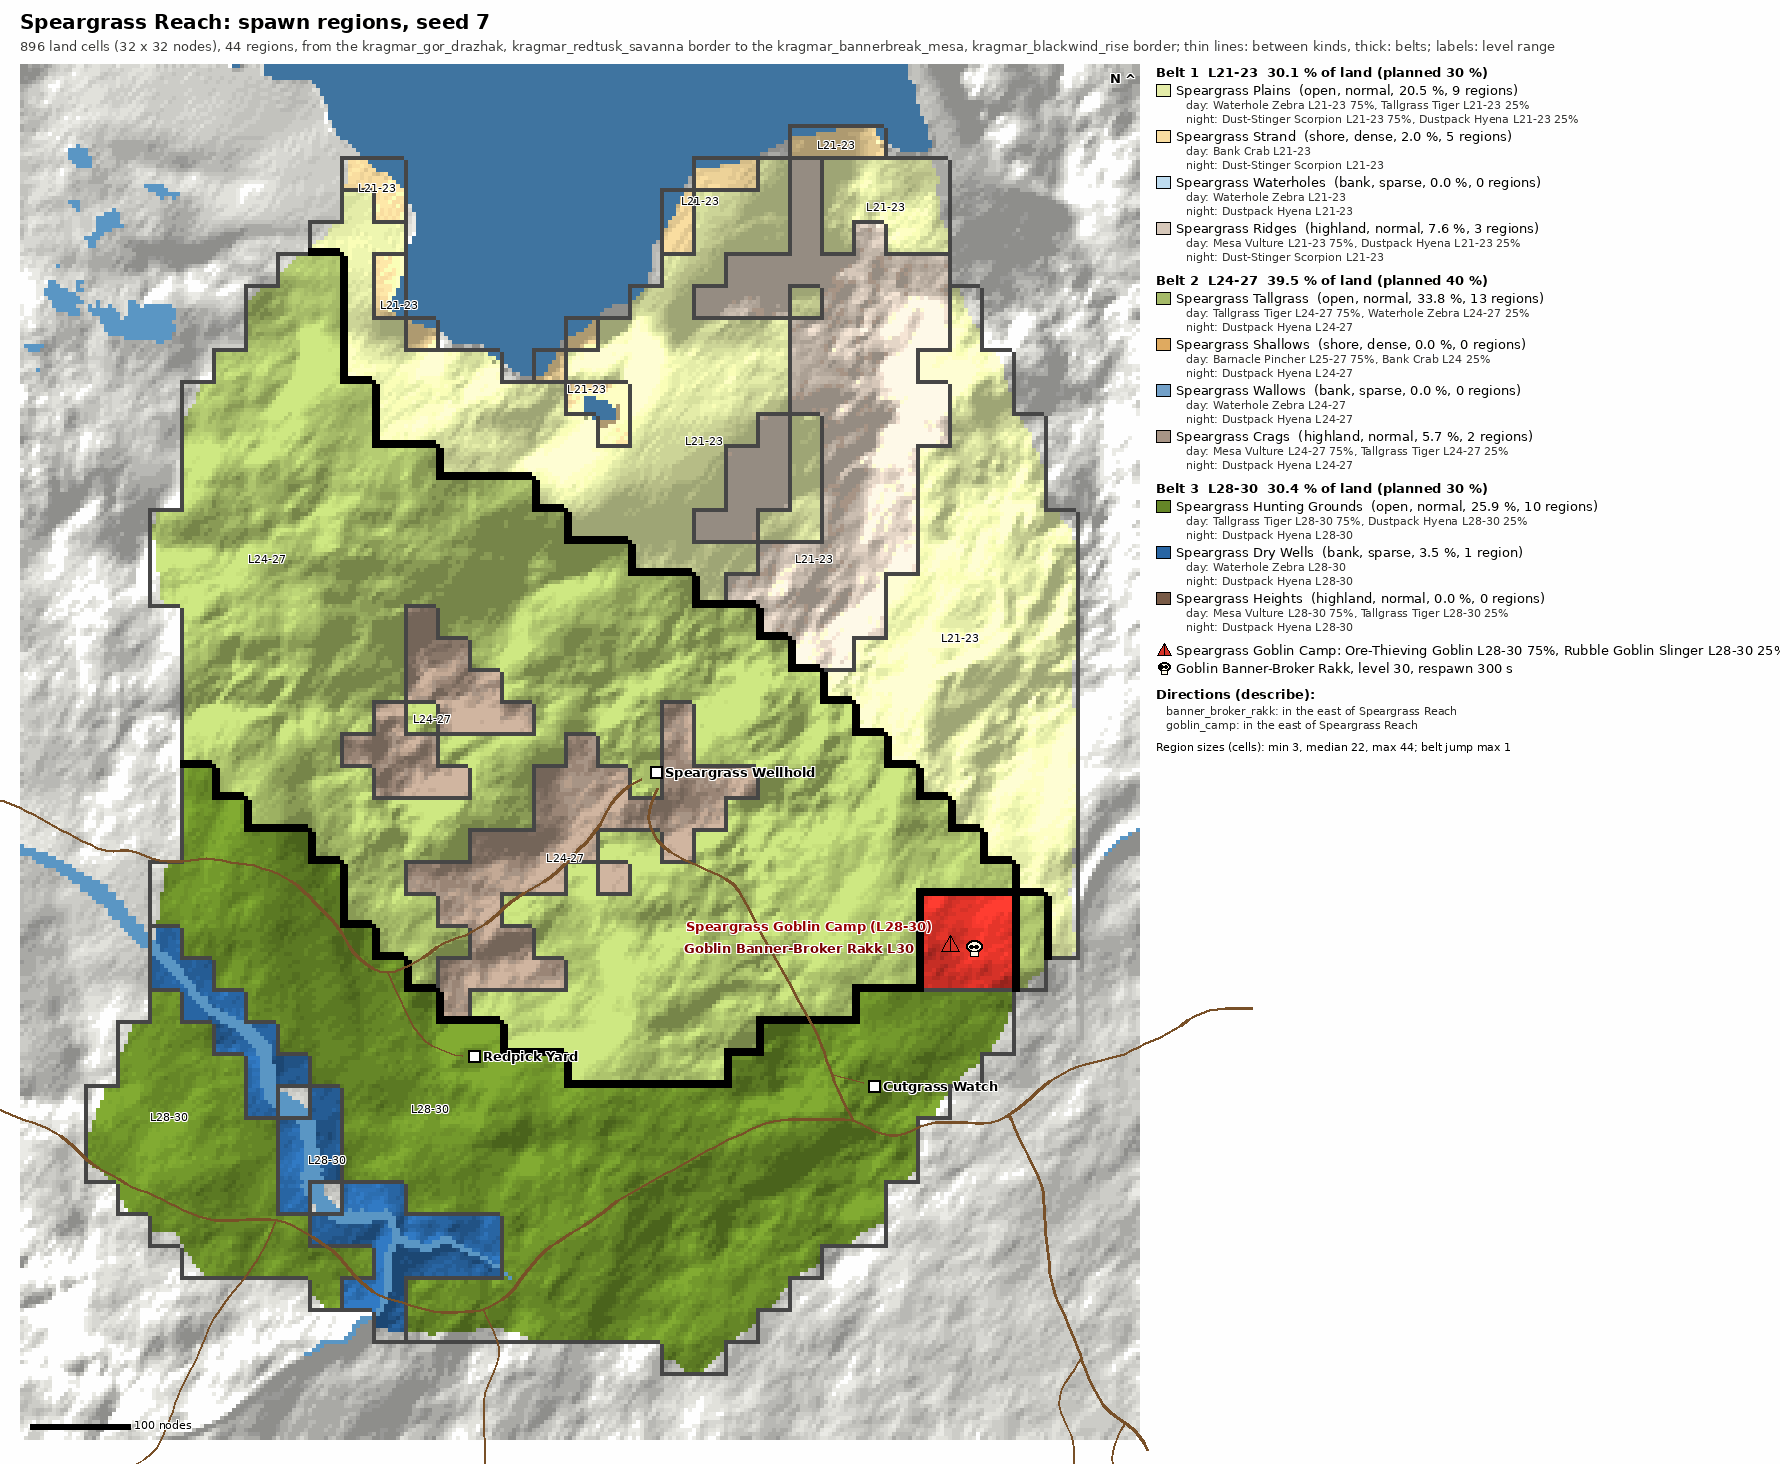
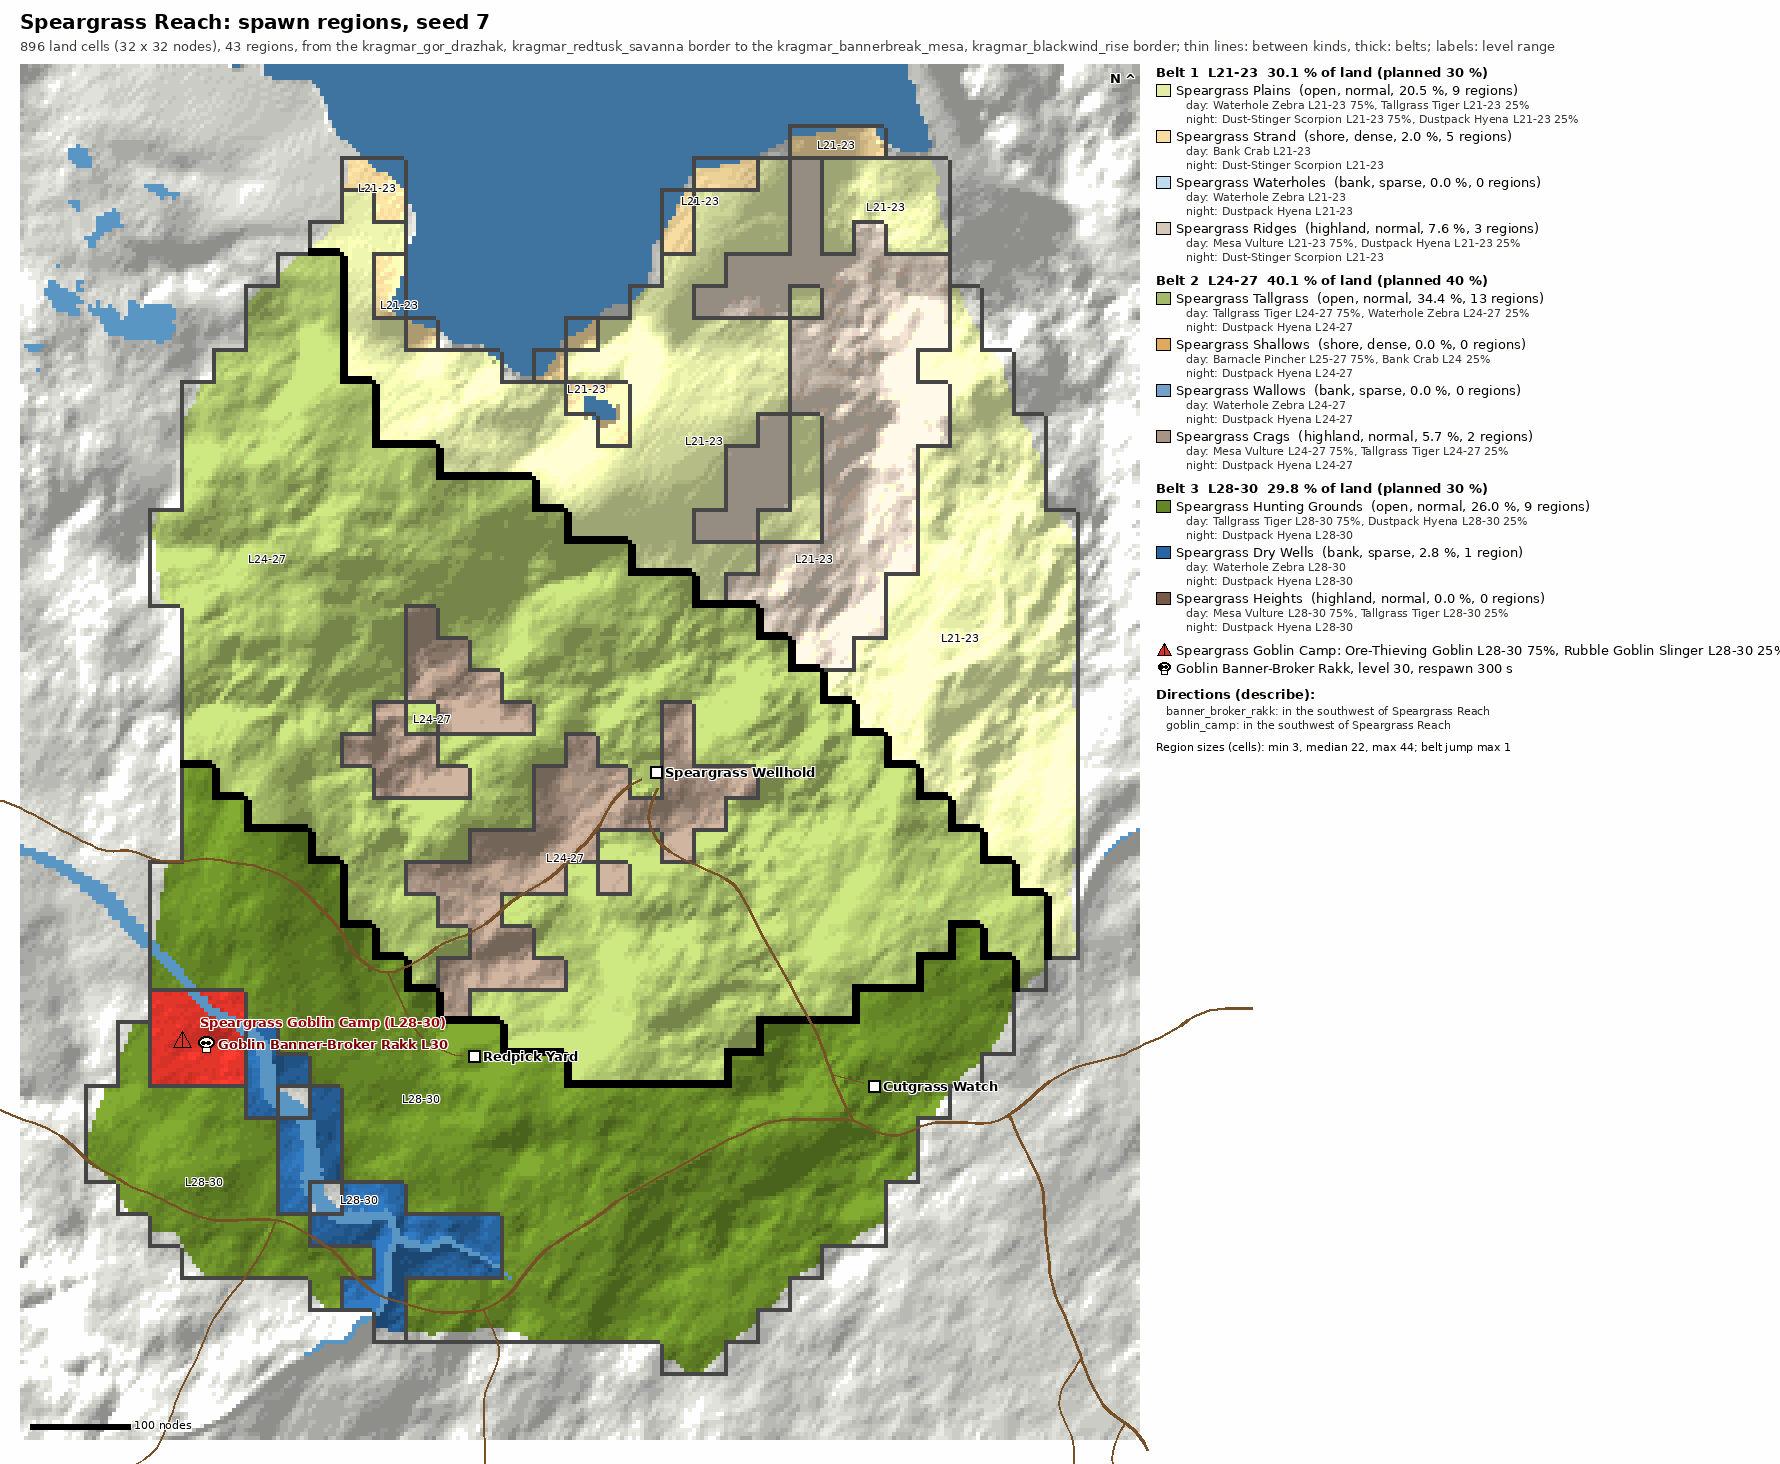
Round 28 S2b: Kragmar regions re-rendered on the S2c builder (seeds 42, 7, 2026)
0 problems, belt jumps at most 1, all 20 leaders on their own kinds and camps
on every seed; only Speargrass seed 7's goblin camp moved (west edge of
L28-30, by Redpick Yard).

diff --git a/docs/planning/round28/regions/speargrass/seed_7.md b/docs/planning/round28/regions/speargrass/seed_7.md
@@ -2,15 +2,15 @@
 
 Generated by `tools/r28_regions/run.sh` from the shipped recipe (`mods/ENTITIES/grug_mobs/data/zones/kragmar_speargrass_reach.spawns.json`); image `seed_7.png`.
 
-Build: world 17.0 s, region map 0.40 s (CPU, LuaJIT, offline); the map holds about 797 KiB, the first build -7779 KiB with the planner's column cache it warms. 896 land cells, 44 regions, 0 islet cells, 2 cells smoothed (belt step-down).
+Build: world 16.7 s, region map 0.46 s (CPU, LuaJIT, offline); the map holds about 797 KiB, the first build -7750 KiB with the planner's column cache it warms. 896 land cells, 43 regions, 0 islet cells, 2 cells smoothed (belt step-down).
 
 ## Belts
 
 | Belt | Levels | Planned | Land share |
 |---|---|---|---|
 | l21_23 | L21-23 | 30 % | 30.1 % |
-| l24_27 | L24-27 | 40 % | 39.5 % |
-| l28_30 | L28-30 | 30 % | 30.4 % |
+| l24_27 | L24-27 | 40 % | 40.1 % |
+| l28_30 | L28-30 | 30 % | 29.8 % |
 
 ## Kinds
 
@@ -20,23 +20,23 @@ Build: world 17.0 s, region map 0.40 s (CPU, LuaJIT, offline); the map holds abo
 | Speargrass Strand (`strand`) | 1 | shore | dense | 2.0 % | 5 | Bank Crab L21-23 | Dust-Stinger Scorpion L21-23 |
 | Speargrass Waterholes (`waterholes`) | 1 | bank | sparse | 0.0 % | 0 | Waterhole Zebra L21-23 | Dustpack Hyena L21-23 |
 | Speargrass Ridges (`ridges`) | 1 | highland | normal | 7.6 % | 3 | Mesa Vulture L21-23 75%, Dustpack Hyena L21-23 25% | Dust-Stinger Scorpion L21-23 |
-| Speargrass Tallgrass (`tallgrass`) | 2 | open | normal | 33.8 % | 13 | Tallgrass Tiger L24-27 75%, Waterhole Zebra L24-27 25% | Dustpack Hyena L24-27 |
+| Speargrass Tallgrass (`tallgrass`) | 2 | open | normal | 34.4 % | 13 | Tallgrass Tiger L24-27 75%, Waterhole Zebra L24-27 25% | Dustpack Hyena L24-27 |
 | Speargrass Shallows (`shallows`) | 2 | shore | dense | 0.0 % | 0 | Barnacle Pincher L25-27 75%, Bank Crab L24 25% | Dustpack Hyena L24-27 |
 | Speargrass Wallows (`wallows`) | 2 | bank | sparse | 0.0 % | 0 | Waterhole Zebra L24-27 | Dustpack Hyena L24-27 |
 | Speargrass Crags (`crags`) | 2 | highland | normal | 5.7 % | 2 | Mesa Vulture L24-27 75%, Tallgrass Tiger L24-27 25% | Dustpack Hyena L24-27 |
-| Speargrass Hunting Grounds (`hunting_grounds`) | 3 | open | normal | 25.9 % | 10 | Tallgrass Tiger L28-30 75%, Dustpack Hyena L28-30 25% | Dustpack Hyena L28-30 |
-| Speargrass Dry Wells (`dry_wells`) | 3 | bank | sparse | 3.5 % | 1 | Waterhole Zebra L28-30 | Dustpack Hyena L28-30 |
+| Speargrass Hunting Grounds (`hunting_grounds`) | 3 | open | normal | 26.0 % | 9 | Tallgrass Tiger L28-30 75%, Dustpack Hyena L28-30 25% | Dustpack Hyena L28-30 |
+| Speargrass Dry Wells (`dry_wells`) | 3 | bank | sparse | 2.8 % | 1 | Waterhole Zebra L28-30 | Dustpack Hyena L28-30 |
 | Speargrass Heights (`heights`) | 3 | highland | normal | 0.0 % | 0 | Mesa Vulture L28-30 75%, Tallgrass Tiger L28-30 25% | Dustpack Hyena L28-30 |
 | Speargrass Goblin Camp (`goblin_camp`) | camp | - | slots 6 | 1.0 % | 1 | Ore-Thieving Goblin L28-30 75%, Rubble Goblin Slinger L28-30 25% | Ore-Thieving Goblin L28-30 75%, Rubble Goblin Slinger L28-30 25% |
 
 ## Region sizes
 
-Cells per region (32 x 32 nodes each), sorted: 3 3 3 4 5 9 9 10 11 11 12 12 16 16 16 16 16 18 18 19 19 21 22 22 22 22 23 24 24 25 26 26 26 27 27 28 29 31 32 33 35 40 41 44. Min 3, median 22, max 44; largest belt difference between adjacent regions: 1.
+Cells per region (32 x 32 nodes each), sorted: 3 3 3 4 5 9 9 10 11 11 12 12 13 13 16 16 18 18 19 21 22 22 23 24 24 24 25 25 26 26 26 26 27 28 29 29 32 35 36 37 39 41 44. Min 3, median 22, max 44; largest belt difference between adjacent regions: 1.
 
 ## Camps and leaders
 
-- Camp `goblin_camp` at (-560, 1392): score 0.60, nearest road 128 nodes, levels L28-30.
-- Leader Goblin Banner-Broker Rakk (`banner_broker_rakk`) at (-560, 1392), level 30, respawn 300 s.
+- Camp `goblin_camp` at (-1328, 1296): score 0.58, nearest road 128 nodes, levels L28-30.
+- Leader Goblin Banner-Broker Rakk (`banner_broker_rakk`) at (-1328, 1296), level 30, respawn 300 s.
 
 ## Directions
 
@@ -44,8 +44,8 @@ Reference place: none (no `from` anchor); quest giver: none (no start town).
 
 | Target | Of the place | From the giver | Within the zone |
 |---|---|---|---|
-| Speargrass Goblin Camp | - | - | in the east of Speargrass Reach (403) |
-| Goblin Banner-Broker Rakk | - | - | in the east of Speargrass Reach (403) |
+| Speargrass Goblin Camp | - | - | in the southwest of Speargrass Reach (484) |
+| Goblin Banner-Broker Rakk | - | - | in the southwest of Speargrass Reach (484) |
 | Speargrass Plains | - | - | in the north of Speargrass Reach (350) |
 | Speargrass Strand | - | - | in the north of Speargrass Reach (386) |
 | Speargrass Waterholes | - | - | - |
@@ -54,8 +54,8 @@ Reference place: none (no `from` anchor); quest giver: none (no start town).
 | Speargrass Shallows | - | - | - |
 | Speargrass Wallows | - | - | - |
 | Speargrass Crags | - | - | in the heart of Speargrass Reach (90) |
-| Speargrass Hunting Grounds | - | - | in the southwest of Speargrass Reach (375) |
-| Speargrass Dry Wells | - | - | in the southwest of Speargrass Reach (472) |
+| Speargrass Hunting Grounds | - | - | in the southwest of Speargrass Reach (371) |
+| Speargrass Dry Wells | - | - | in the southwest of Speargrass Reach (489) |
 | Speargrass Heights | - | - | - |
 
 Distances in nodes (zone column: from the zone's land centre). A kind points at its largest region.

diff --git a/docs/planning/round28/regions/thunderroot/seed_2026.md b/docs/planning/round28/regions/thunderroot/seed_2026.md
@@ -2,7 +2,7 @@
 
 Generated by `tools/r28_regions/run.sh` from the shipped recipe (`mods/ENTITIES/grug_mobs/data/zones/kragmar_thunderroot_wilds.spawns.json`); image `seed_2026.png`.
 
-Build: world 17.8 s, region map 0.44 s (CPU, LuaJIT, offline); the map holds about 1150 KiB, the first build -13140 KiB with the planner's column cache it warms. 1273 land cells, 61 regions, 0 islet cells, 0 cells smoothed (belt step-down).
+Build: world 17.3 s, region map 0.44 s (CPU, LuaJIT, offline); the map holds about 1150 KiB, the first build -10257 KiB with the planner's column cache it warms. 1273 land cells, 61 regions, 0 islet cells, 0 cells smoothed (belt step-down).
 
 ## Belts
 

diff --git a/docs/planning/round28/regions/whispering/seed_2026.md b/docs/planning/round28/regions/whispering/seed_2026.md
@@ -2,7 +2,7 @@
 
 Generated by `tools/r28_regions/run.sh` from the shipped recipe (`mods/ENTITIES/grug_mobs/data/zones/kragmar_whispering_reedlands.spawns.json`); image `seed_2026.png`.
 
-Build: world 17.8 s, region map 0.40 s (CPU, LuaJIT, offline); the map holds about 624 KiB, the first build -15080 KiB with the planner's column cache it warms. 689 land cells, 37 regions, 0 islet cells, 2 cells smoothed (belt step-down).
+Build: world 17.3 s, region map 0.40 s (CPU, LuaJIT, offline); the map holds about 624 KiB, the first build -15415 KiB with the planner's column cache it warms. 689 land cells, 37 regions, 0 islet cells, 2 cells smoothed (belt step-down).
 
 ## Belts
 

diff --git a/docs/planning/round28/regions/bannerbreak/seed_2026.md b/docs/planning/round28/regions/bannerbreak/seed_2026.md
@@ -2,7 +2,7 @@
 
 Generated by `tools/r28_regions/run.sh` from the shipped recipe (`mods/ENTITIES/grug_mobs/data/zones/kragmar_bannerbreak_mesa.spawns.json`); image `seed_2026.png`.
 
-Build: world 17.9 s, region map 0.57 s (CPU, LuaJIT, offline); the map holds about 1148 KiB, the first build -8854 KiB with the planner's column cache it warms. 1270 land cells, 60 regions, 1 islet cells, 0 cells smoothed (belt step-down).
+Build: world 17.3 s, region map 0.54 s (CPU, LuaJIT, offline); the map holds about 1148 KiB, the first build -10263 KiB with the planner's column cache it warms. 1270 land cells, 60 regions, 1 islet cells, 0 cells smoothed (belt step-down).
 
 ## Belts
 

diff --git a/docs/planning/round28/regions/thunderroot/seed_42.md b/docs/planning/round28/regions/thunderroot/seed_42.md
@@ -2,7 +2,7 @@
 
 Generated by `tools/r28_regions/run.sh` from the shipped recipe (`mods/ENTITIES/grug_mobs/data/zones/kragmar_thunderroot_wilds.spawns.json`); image `seed_42.png`.
 
-Build: world 17.6 s, region map 0.42 s (CPU, LuaJIT, offline); the map holds about 1021 KiB, the first build -13983 KiB with the planner's column cache it warms. 1121 land cells, 53 regions, 0 islet cells, 0 cells smoothed (belt step-down).
+Build: world 16.8 s, region map 0.37 s (CPU, LuaJIT, offline); the map holds about 1021 KiB, the first build -14836 KiB with the planner's column cache it warms. 1121 land cells, 53 regions, 0 islet cells, 0 cells smoothed (belt step-down).
 
 ## Belts
 

diff --git a/docs/planning/round28/regions/bannerbreak/seed_42.md b/docs/planning/round28/regions/bannerbreak/seed_42.md
@@ -2,7 +2,7 @@
 
 Generated by `tools/r28_regions/run.sh` from the shipped recipe (`mods/ENTITIES/grug_mobs/data/zones/kragmar_bannerbreak_mesa.spawns.json`); image `seed_42.png`.
 
-Build: world 17.6 s, region map 0.71 s (CPU, LuaJIT, offline); the map holds about 1314 KiB, the first build -11950 KiB with the planner's column cache it warms. 1465 land cells, 67 regions, 0 islet cells, 0 cells smoothed (belt step-down).
+Build: world 16.8 s, region map 0.50 s (CPU, LuaJIT, offline); the map holds about 1314 KiB, the first build -11172 KiB with the planner's column cache it warms. 1465 land cells, 67 regions, 0 islet cells, 0 cells smoothed (belt step-down).
 
 ## Belts
 

diff --git a/docs/planning/round28/regions/blackwind/seed_2026.md b/docs/planning/round28/regions/blackwind/seed_2026.md
@@ -2,7 +2,7 @@
 
 Generated by `tools/r28_regions/run.sh` from the shipped recipe (`mods/ENTITIES/grug_mobs/data/zones/kragmar_blackwind_rise.spawns.json`); image `seed_2026.png`.
 
-Build: world 17.8 s, region map 0.57 s (CPU, LuaJIT, offline); the map holds about 1141 KiB, the first build -19074 KiB with the planner's column cache it warms. 1258 land cells, 63 regions, 0 islet cells, 0 cells smoothed (belt step-down).
+Build: world 17.3 s, region map 0.53 s (CPU, LuaJIT, offline); the map holds about 1141 KiB, the first build -18417 KiB with the planner's column cache it warms. 1258 land cells, 63 regions, 0 islet cells, 0 cells smoothed (belt step-down).
 
 ## Belts
 

diff --git a/docs/planning/round28/regions/thunderroot/seed_7.md b/docs/planning/round28/regions/thunderroot/seed_7.md
@@ -2,7 +2,7 @@
 
 Generated by `tools/r28_regions/run.sh` from the shipped recipe (`mods/ENTITIES/grug_mobs/data/zones/kragmar_thunderroot_wilds.spawns.json`); image `seed_7.png`.
 
-Build: world 17.8 s, region map 0.47 s (CPU, LuaJIT, offline); the map holds about 1153 KiB, the first build -17879 KiB with the planner's column cache it warms. 1276 land cells, 62 regions, 0 islet cells, 0 cells smoothed (belt step-down).
+Build: world 16.7 s, region map 0.49 s (CPU, LuaJIT, offline); the map holds about 1153 KiB, the first build -19326 KiB with the planner's column cache it warms. 1276 land cells, 62 regions, 0 islet cells, 0 cells smoothed (belt step-down).
 
 ## Belts
 

diff --git a/docs/planning/round28/regions/whispering/seed_42.md b/docs/planning/round28/regions/whispering/seed_42.md
@@ -2,7 +2,7 @@
 
 Generated by `tools/r28_regions/run.sh` from the shipped recipe (`mods/ENTITIES/grug_mobs/data/zones/kragmar_whispering_reedlands.spawns.json`); image `seed_42.png`.
 
-Build: world 17.6 s, region map 0.32 s (CPU, LuaJIT, offline); the map holds about 672 KiB, the first build -14845 KiB with the planner's column cache it warms. 746 land cells, 38 regions, 0 islet cells, 1 cells smoothed (belt step-down).
+Build: world 16.8 s, region map 0.33 s (CPU, LuaJIT, offline); the map holds about 672 KiB, the first build -15182 KiB with the planner's column cache it warms. 746 land cells, 38 regions, 0 islet cells, 1 cells smoothed (belt step-down).
 
 ## Belts
 

diff --git a/docs/planning/round28/regions/whispering/seed_7.md b/docs/planning/round28/regions/whispering/seed_7.md
@@ -2,7 +2,7 @@
 
 Generated by `tools/r28_regions/run.sh` from the shipped recipe (`mods/ENTITIES/grug_mobs/data/zones/kragmar_whispering_reedlands.spawns.json`); image `seed_7.png`.
 
-Build: world 17.8 s, region map 0.37 s (CPU, LuaJIT, offline); the map holds about 674 KiB, the first build -16594 KiB with the planner's column cache it warms. 747 land cells, 40 regions, 3 islet cells, 2 cells smoothed (belt step-down).
+Build: world 16.7 s, region map 0.42 s (CPU, LuaJIT, offline); the map holds about 674 KiB, the first build -18396 KiB with the planner's column cache it warms. 747 land cells, 40 regions, 3 islet cells, 2 cells smoothed (belt step-down).
 
 ## Belts
 

diff --git a/docs/planning/round28/regions/speargrass/seed_2026.md b/docs/planning/round28/regions/speargrass/seed_2026.md
@@ -2,7 +2,7 @@
 
 Generated by `tools/r28_regions/run.sh` from the shipped recipe (`mods/ENTITIES/grug_mobs/data/zones/kragmar_speargrass_reach.spawns.json`); image `seed_2026.png`.
 
-Build: world 17.9 s, region map 0.32 s (CPU, LuaJIT, offline); the map holds about 649 KiB, the first build -18070 KiB with the planner's column cache it warms. 721 land cells, 36 regions, 0 islet cells, 2 cells smoothed (belt step-down).
+Build: world 17.3 s, region map 0.34 s (CPU, LuaJIT, offline); the map holds about 649 KiB, the first build -16413 KiB with the planner's column cache it warms. 721 land cells, 36 regions, 0 islet cells, 2 cells smoothed (belt step-down).
 
 ## Belts
 

diff --git a/docs/planning/round28/regions/bannerbreak/seed_7.md b/docs/planning/round28/regions/bannerbreak/seed_7.md
@@ -2,7 +2,7 @@
 
 Generated by `tools/r28_regions/run.sh` from the shipped recipe (`mods/ENTITIES/grug_mobs/data/zones/kragmar_bannerbreak_mesa.spawns.json`); image `seed_7.png`.
 
-Build: world 17.0 s, region map 0.72 s (CPU, LuaJIT, offline); the map holds about 1399 KiB, the first build -7692 KiB with the planner's column cache it warms. 1569 land cells, 66 regions, 0 islet cells, 0 cells smoothed (belt step-down).
+Build: world 16.7 s, region map 0.61 s (CPU, LuaJIT, offline); the map holds about 1399 KiB, the first build -8215 KiB with the planner's column cache it warms. 1569 land cells, 66 regions, 0 islet cells, 0 cells smoothed (belt step-down).
 
 ## Belts
 
